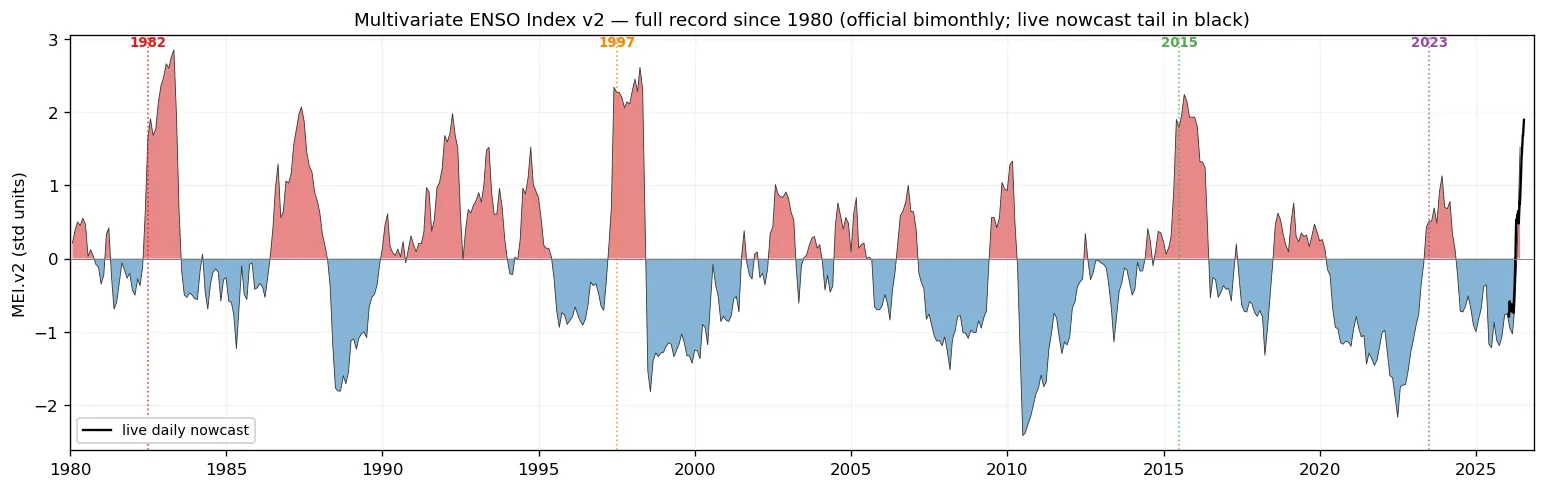
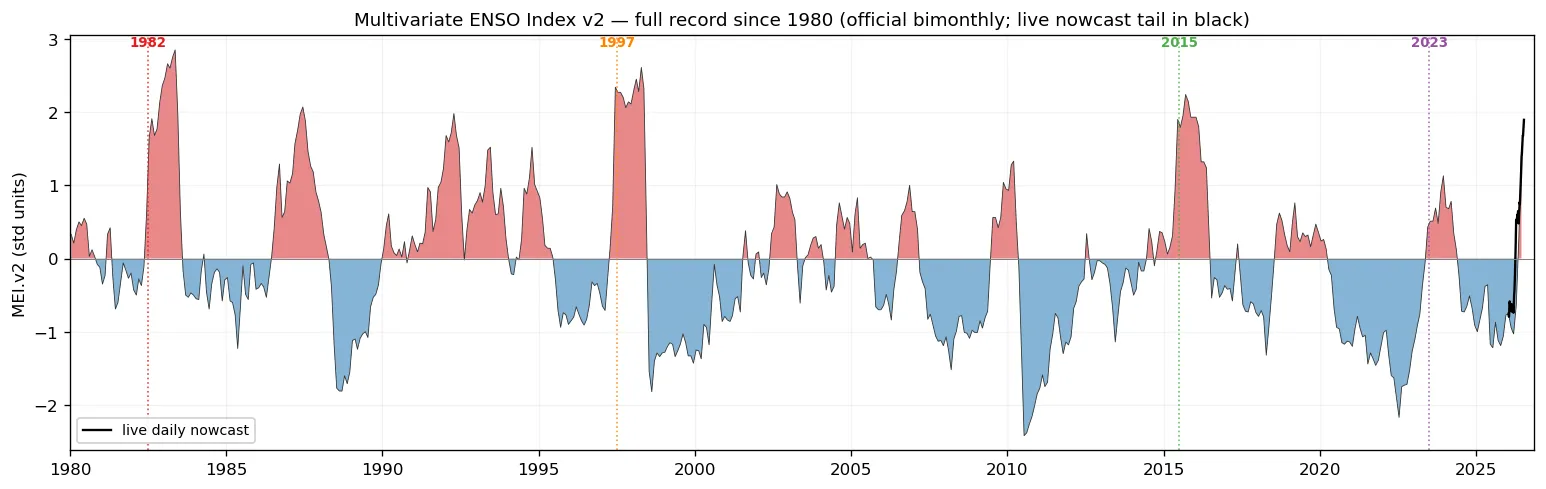
El Niño monitor: readable Niño boxes, raw-SST card back, 90-day anims, MEI seasons plotted mid-closing-month
Maps: the four region outlines are now plain black — four overlapping
coloured rectangles were unreadable — with dimension-style capped rulers
under the equator identifying each region: Niño-4 and Niño-3 share the
shallow row (they abut at 150°W), Niño-3.4, which overlaps both, gets its
own deeper row, and Niño-1+2 is labelled beneath its coastal box. Verified
with a local cartopy test render.

Overview: the raw/absolute SST animation returns as its own card (warm
pool, cold tongue and the 28-29°C convective threshold read directly), and
both animation products extend from 60 to 90 days (ANIM_DAYS).

MEI nowcast: official bimonthly values now plot at the 15th of the season's
closing month — the MJ value sits mid-June. The old window-center placement
(~May 30) read as "plotted in May", a month early to anyone tracking "the
June MEI". Charts regenerated. Also: run_local.sh's cache-bust regex
matched only numeric ?v= tokens; the revamped page stamps hex.

diff --git a/sst.html b/sst.html
@@ -231,20 +231,35 @@
     </div>
   </div>
 
-  <!-- ── 60-DAY ANIMATION ──────────────────────────────────────────────── -->
+  <!-- ── 90-DAY ANIMATIONS ─────────────────────────────────────────────── -->
   <div class="chart-card">
     <div class="chart-card-header">
-      <h2>Sixty days in motion</h2>
-      <p>The last 60 days of daily fields, global and tropical Pacific side by side. Switch the
-      product inside the panel: the <b>anomaly</b>, the <b>absolute</b> SST (warm pool and cold
-      tongue directly), or the <b>global-mean-removed</b> anomaly that isolates the ENSO pattern
-      from the uniform background warming.</p>
+      <h2>Ninety days in motion &mdash; the anomaly</h2>
+      <p>The last 90 days of daily anomaly fields, global and tropical Pacific side by side,
+      with the Ni&ntilde;o regions outlined. The panel's dropdown also offers the
+      <b>global-mean-removed</b> variant, which strips the uniform background warming and
+      isolates the ENSO pattern.</p>
     </div>
     <iframe class="anim-embed" src="sst_anim.html?embed=1&amp;region=anomaly"
-            title="Global and tropical Pacific SST animation (anomaly / absolute / relative)" loading="lazy"></iframe>
+            title="Global and tropical Pacific SST anomaly animation" loading="lazy"></iframe>
     <div class="chart-card-footer">
-      <span class="chart-sources">NOAA OISST v2.1 (PSL) &middot; 60-day animation &middot; product dropdown in the panel</span>
+      <span class="chart-sources">NOAA OISST v2.1 (PSL) &middot; 90-day animation &middot; base 1991&ndash;2020</span>
       <span class="chart-updated" id="sst-updated">OISST 2026-07-12</span>
+    </div>
+  </div>
+
+  <div class="chart-card">
+    <div class="chart-card-header">
+      <h2>Ninety days in motion &mdash; raw SST</h2>
+      <p>The actual sea-surface temperature field, not the anomaly: the West Pacific warm pool,
+      the equatorial cold tongue and the western boundary currents are visible directly, and the
+      28&ndash;29&nbsp;&deg;C convective threshold shows where deep convection can root.</p>
+    </div>
+    <iframe class="anim-embed" src="sst_anim.html?embed=1&amp;region=absolute"
+            title="Global and tropical Pacific absolute SST animation" loading="lazy"></iframe>
+    <div class="chart-card-footer">
+      <span class="chart-sources">NOAA OISST v2.1 (PSL) &middot; absolute SST &middot; 90-day animation</span>
+      <span class="chart-updated">OISST 2026-07-12</span>
     </div>
   </div>
 

diff --git a/scripts/sst/pages/overview.html b/scripts/sst/pages/overview.html
@@ -76,20 +76,35 @@
     </div>
   </div>
 
-  <!-- ── 60-DAY ANIMATION ──────────────────────────────────────────────── -->
+  <!-- ── 90-DAY ANIMATIONS ─────────────────────────────────────────────── -->
   <div class="chart-card">
     <div class="chart-card-header">
-      <h2>Sixty days in motion</h2>
-      <p>The last 60 days of daily fields, global and tropical Pacific side by side. Switch the
-      product inside the panel: the <b>anomaly</b>, the <b>absolute</b> SST (warm pool and cold
-      tongue directly), or the <b>global-mean-removed</b> anomaly that isolates the ENSO pattern
-      from the uniform background warming.</p>
+      <h2>Ninety days in motion &mdash; the anomaly</h2>
+      <p>The last 90 days of daily anomaly fields, global and tropical Pacific side by side,
+      with the Ni&ntilde;o regions outlined. The panel's dropdown also offers the
+      <b>global-mean-removed</b> variant, which strips the uniform background warming and
+      isolates the ENSO pattern.</p>
     </div>
     <iframe class="anim-embed" src="sst_anim.html?embed=1&amp;region=anomaly"
-            title="Global and tropical Pacific SST animation (anomaly / absolute / relative)" loading="lazy"></iframe>
+            title="Global and tropical Pacific SST anomaly animation" loading="lazy"></iframe>
     <div class="chart-card-footer">
-      <span class="chart-sources">NOAA OISST v2.1 (PSL) &middot; 60-day animation &middot; product dropdown in the panel</span>
+      <span class="chart-sources">NOAA OISST v2.1 (PSL) &middot; 90-day animation &middot; base 1991&ndash;2020</span>
       <span class="chart-updated" id="sst-updated">__SST_DAY__</span>
+    </div>
+  </div>
+
+  <div class="chart-card">
+    <div class="chart-card-header">
+      <h2>Ninety days in motion &mdash; raw SST</h2>
+      <p>The actual sea-surface temperature field, not the anomaly: the West Pacific warm pool,
+      the equatorial cold tongue and the western boundary currents are visible directly, and the
+      28&ndash;29&nbsp;&deg;C convective threshold shows where deep convection can root.</p>
+    </div>
+    <iframe class="anim-embed" src="sst_anim.html?embed=1&amp;region=absolute"
+            title="Global and tropical Pacific absolute SST animation" loading="lazy"></iframe>
+    <div class="chart-card-footer">
+      <span class="chart-sources">NOAA OISST v2.1 (PSL) &middot; absolute SST &middot; 90-day animation</span>
+      <span class="chart-updated">__SST_DAY__</span>
     </div>
   </div>
 

diff --git a/scripts/sst/sst-roni.py b/scripts/sst/sst-roni.py
@@ -97,7 +97,7 @@ REGIONS = {
 }
 # Which regions get an animation (the others still get a static map).
 ANIM_REGIONS = ["tropical"]
-ANIM_DAYS = 60
+ANIM_DAYS = 90
 # Animation frames are independent cartopy renders → render them in a process pool.
 RENDER_WORKERS = int(os.environ.get("SST_RENDER_WORKERS", str(min(os.cpu_count() or 4, 8))))
 
@@ -153,12 +153,11 @@ def sst_anom_cmap():
 # ----------------------------------------------------------------------
 # Map rendering
 # ----------------------------------------------------------------------
-def _draw_box(ax, lat_rng, lon_rng, color, lw=1.2):
-    """Outline a lat/lon box as a CASED line: a white halo under the coloured core,
-    so the box stays legible over any anomaly colour (deep red/blue blobs used to
-    swallow same-hued outlines). Edges are dense point sequences along the parallels
-    and meridians so the rectangle follows the projection (doesn't bow) regardless
-    of the map's central longitude."""
+def _draw_box(ax, lat_rng, lon_rng, color="black", lw=1.1):
+    """Outline a lat/lon box as a CASED line: a white halo under the core, so
+    the box stays legible over any anomaly colour. Edges are dense point
+    sequences along the parallels and meridians so the rectangle follows the
+    projection (doesn't bow) regardless of the map's central longitude."""
     lon0, lon1 = lon_rng
     lat0, lat1 = lat_rng
     lons = np.linspace(lon0, lon1, 100)
@@ -171,27 +170,49 @@ def _draw_box(ax, lat_rng, lon_rng, color, lw=1.2):
             zorder=5.05, solid_capstyle="round")
 
 
-# label vertical offsets (deg lat above each box top) so the three equatorial
-# boxes' labels stagger instead of colliding; Ni\u00f1o-1+2 sits to the south/east.
-_NINO_LAB_DY = {"nino4": 1.3, "nino34": 6.0, "nino3": 1.3, "nino12": 1.3}
+# Region extent rulers: dimension-style |\u2014\u2014| lines under the boxes, staggered
+# in latitude so the three overlapping equatorial regions read separately.
+# (lat of the ruler, lat of its label, label above the line?)
+_RULER_ROWS = {"nino4": (-6.6, -7.4, False), "nino3": (-6.6, -7.4, False),
+               "nino34": (-11.2, -12.0, False)}
+
+
+def _draw_ruler(ax, lon0, lon1, lat, text, lab_lat, lab_above, fontsize=7.5):
+    import matplotlib.patheffects as mpe
+    halo = [mpe.withStroke(linewidth=2.2, foreground="white")]
+    cap = 0.9                                  # end-cap half-height, deg lat
+    ax.plot([lon0, lon1], [lat, lat], transform=PC, color="black", lw=1.0,
+            zorder=6, path_effects=halo)
+    for x in (lon0, lon1):
+        ax.plot([x, x], [lat - cap, lat + cap], transform=PC, color="black",
+                lw=1.0, zorder=6, path_effects=halo)
+    ax.text((lon0 + lon1) / 2.0, lab_lat, text, transform=PC,
+            fontsize=fontsize, ha="center", va="bottom" if lab_above else "top",
+            color="black", zorder=6, fontweight="bold",
+            path_effects=[mpe.withStroke(linewidth=1.6, foreground="white")])
 
 
 def _draw_nino_boxes(ax, label=True):
-    """Outline all four CPC ENSO regions (Ni\u00f1o-4/3.4/3/1+2), each in its region
-    colour (matching the time-series chart). Ni\u00f1o-3.4 is drawn slightly heavier as
-    the primary ONI region. 3.4 overlaps 4 and 3 by definition."""
+    """Outline all four CPC ENSO regions in plain black (coloured, overlapping
+    outlines were unreadable), with capped extent rulers under the equator
+    identifying each region: Ni\u00f1o-4 and Ni\u00f1o-3 share the shallow row (they
+    abut at 150\u00b0W), Ni\u00f1o-3.4 \u2014 which overlaps both \u2014 gets its own deeper row,
+    and Ni\u00f1o-1+2's small coastal box is labelled beneath itself."""
     for key, r in NINO_REGIONS.items():
-        _draw_box(ax, r["lat"], r["lon"], r["color"],
-                  lw=1.6 if key == "nino34" else 1.1)
-        if label:
-            import matplotlib.patheffects as mpe
-            lon_c = (r["lon"][0] + r["lon"][1]) / 2.0
-            # Black text with a thin white halo so it reads on BOTH the warm absolute-SST
-            # map and the lighter anomaly map (the region colour stays on the box outline).
-            ax.text(lon_c, r["lat"][1] + _NINO_LAB_DY[key], r["label"], transform=PC,
-                    fontsize=7.5, ha="center", va="bottom", color="black",
-                    zorder=6, fontweight="bold",
-                    path_effects=[mpe.withStroke(linewidth=1.6, foreground="white")])
+        _draw_box(ax, r["lat"], r["lon"], lw=1.4 if key == "nino34" else 1.0)
+    if not label:
+        return
+    for key, (row, lab_lat, above) in _RULER_ROWS.items():
+        r = NINO_REGIONS[key]
+        pad = 0.8                              # abutting rulers don't touch
+        _draw_ruler(ax, r["lon"][0] + pad, r["lon"][1] - pad, row,
+                    r["label"], lab_lat, above)
+    r12 = NINO_REGIONS["nino12"]
+    import matplotlib.patheffects as mpe
+    ax.text((r12["lon"][0] + r12["lon"][1]) / 2.0, r12["lat"][0] - 1.2,
+            r12["label"], transform=PC, fontsize=7.5, ha="center", va="top",
+            color="black", zorder=6, fontweight="bold",
+            path_effects=[mpe.withStroke(linewidth=1.6, foreground="white")])
 
 
 def render_sst_map(anom2d, lat_name, lon_name, extent, title, out_path,
@@ -246,7 +267,7 @@ def render_sst_map(anom2d, lat_name, lon_name, extent, title, out_path,
                     bbox_inches="tight", pad_inches=0.08)
         print(f"  wrote {Path(png_path).name} (dpi {png_dpi})")
     plt.close(fig)
-    print(f"  wrote {out_path.name}")
+    print(f"  wrote {Path(out_path).name}")
 
 
 def render_anim_frames(full_anom, la, lo, region_id, extent, central_lon,

diff --git a/scripts/mjo/src/build_mei_nowcast.py b/scripts/mjo/src/build_mei_nowcast.py
@@ -263,12 +263,16 @@ def apply_daily(info: dict, years: list[int]) -> pd.DataFrame:
 
 # --------------------------------------------------------------------------------- plot
 def mei_bimonthly_series(mei: dict) -> pd.Series:
-    """Official MEI.v2 as a daily-indexed step series at season mid-points."""
+    """Official MEI.v2 as a daily-indexed step series.
+
+    Each bimonthly value plots at the 15th of the season's SECOND month: the
+    MJ (May–June) value sits mid-June. PSL labels seasons by their closing
+    month, and the window-center placement (~May 30) read as "plotted in May"
+    — a month early to anyone tracking 'the June MEI'."""
     pts = {}
     for (y, s), v in mei.items():
-        m0 = _pair(y, s)[0]
-        mid = pd.Timestamp(m0[0], m0[1], 15) + pd.Timedelta(days=15)
-        pts[mid] = v
+        y1, m1 = _pair(y, s)[1]
+        pts[pd.Timestamp(y1, m1, 15)] = v
     return pd.Series(pts).sort_index()
 
 
